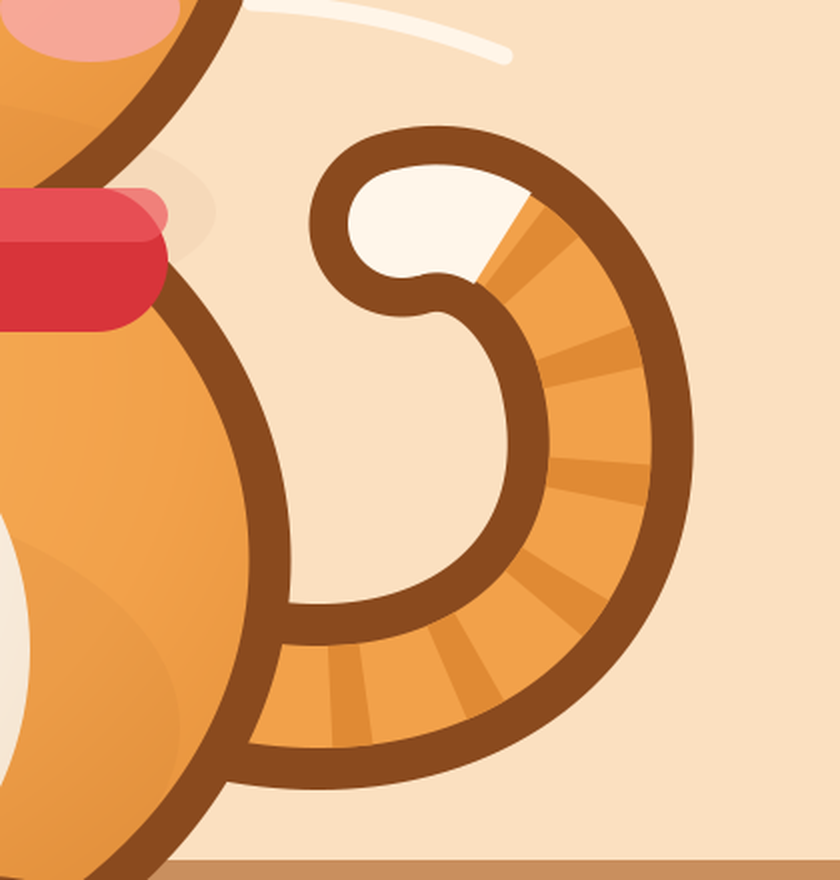
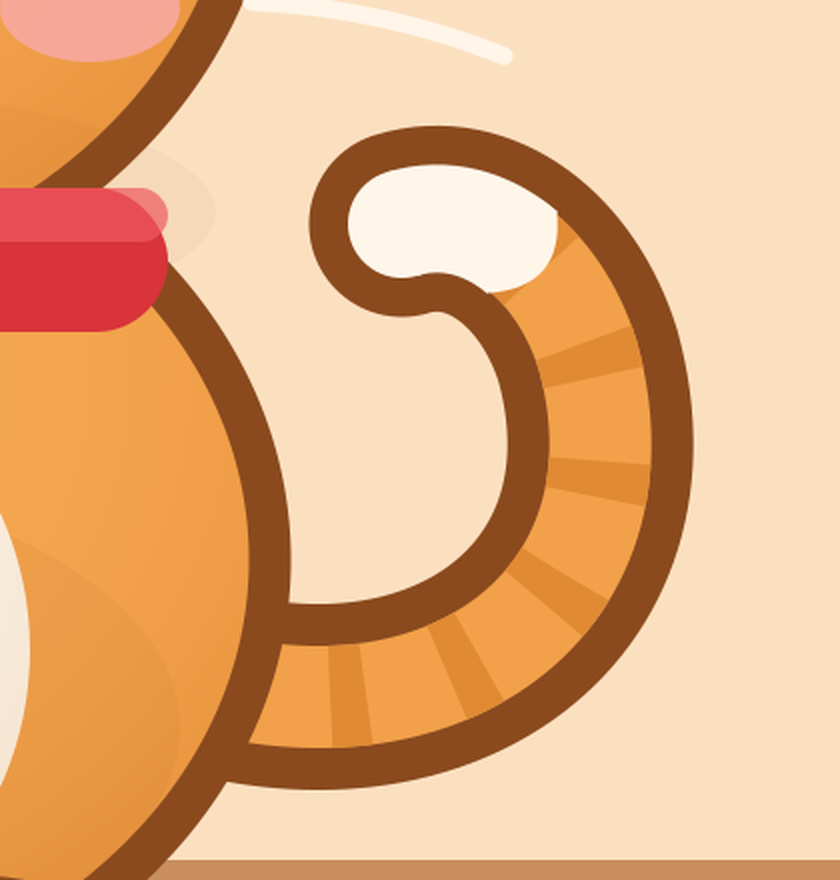
Mochi B: ponta branca da cauda um pouco mais longa com corte levemente arredondado
Claude-Session: https://claude.ai/code/session_01FLvpF3WqtYzmgJK9KhnAb9

Changed region(s): [[0.5571, 0.2148, 0.681, 0.3375]]

diff --git a/codigo/mochi_kit2.py b/codigo/mochi_kit2.py
@@ -34,13 +34,13 @@ def _tail(s, o):
     """Cauda fina de largura uniforme: contorno, miolo, listras, ponta creme e brilho."""
     W = 17
     d = "M262 306 C308 326 350 300 338 256 C333 240 320 230 307 234"
-    tip = "M323.8 236.4 C318.7 233.2 312.9 232.2 307 234"
+    tip = "M327.1 238.8 C321.3 233.8 314.1 231.8 307 234"
     out = ""
     if s["outline"]:
         out += f'<path d="{d}" fill="none" stroke="{s["outline"]}" stroke-width="{W + 2 * s["ow"]}" stroke-linecap="round" stroke-linejoin="round"/>'
     out += f'<path d="{d}" fill="none" stroke="{s["c2"]}" stroke-width="{W}" stroke-linecap="round"/>'
     out += f'<path d="{d}" fill="none" stroke="{s["c3"]}" stroke-width="{W}" stroke-dasharray="6 14" stroke-dashoffset="-14"/>'
-    out += f'<path d="{tip}" fill="none" stroke="#FFF6EA" stroke-width="{W + 1}" stroke-linecap="butt"/><circle cx="307" cy="234" r="{(W + 1) / 2}" fill="#FFF6EA"/>'
+    out += f'<path d="{tip}" fill="none" stroke="#FFF6EA" stroke-width="{W + 1}" stroke-linecap="butt"/><circle cx="307" cy="234" r="{(W + 1) / 2}" fill="#FFF6EA"/><path d="M332.8 232.0 Q334.1 244.5 321.5 245.5 L319.2 243.6 L330.5 230.1 Z" fill="#FFF6EA"/>'
     return out
 
 
